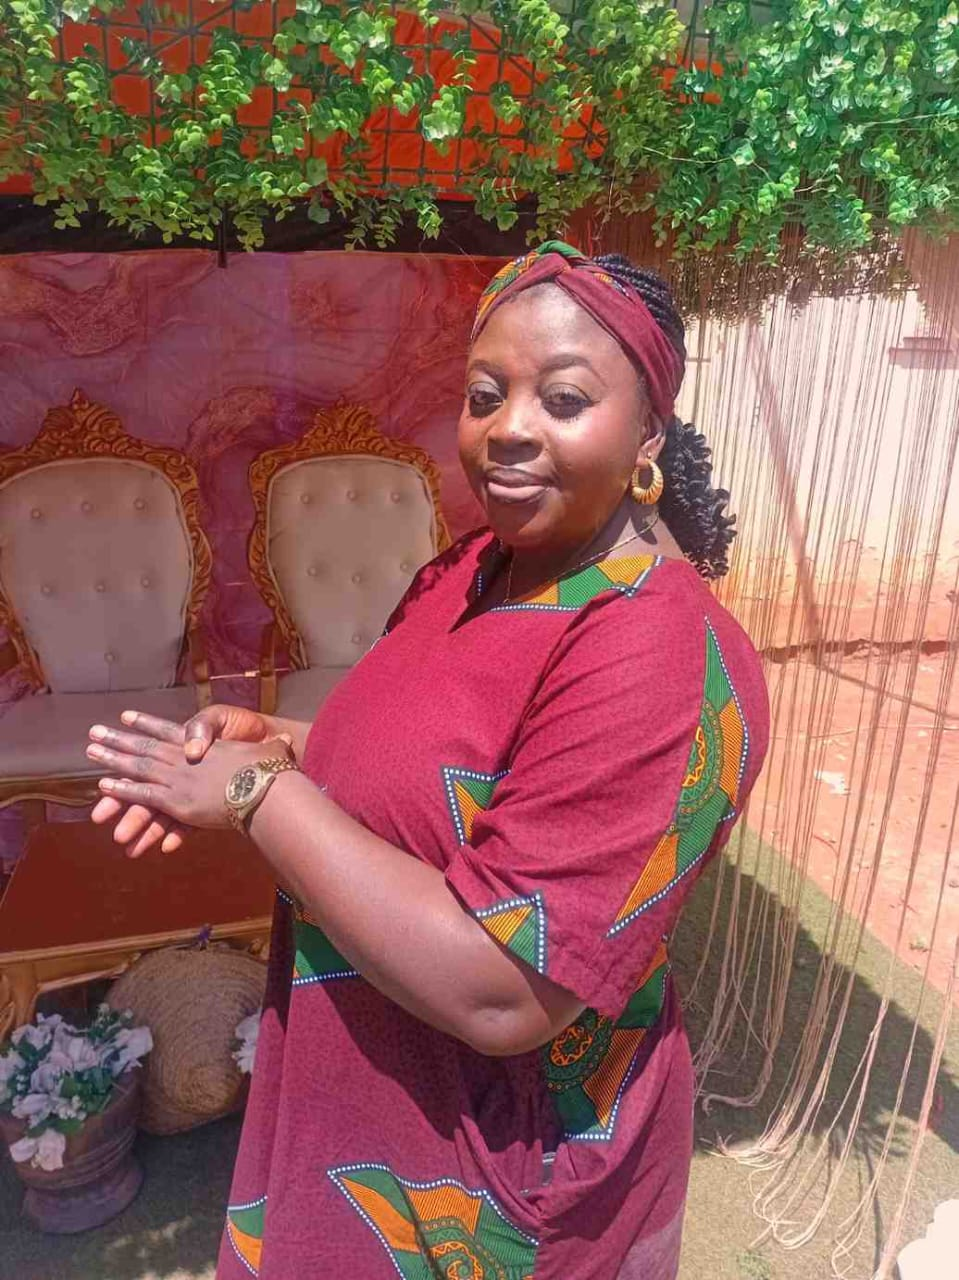
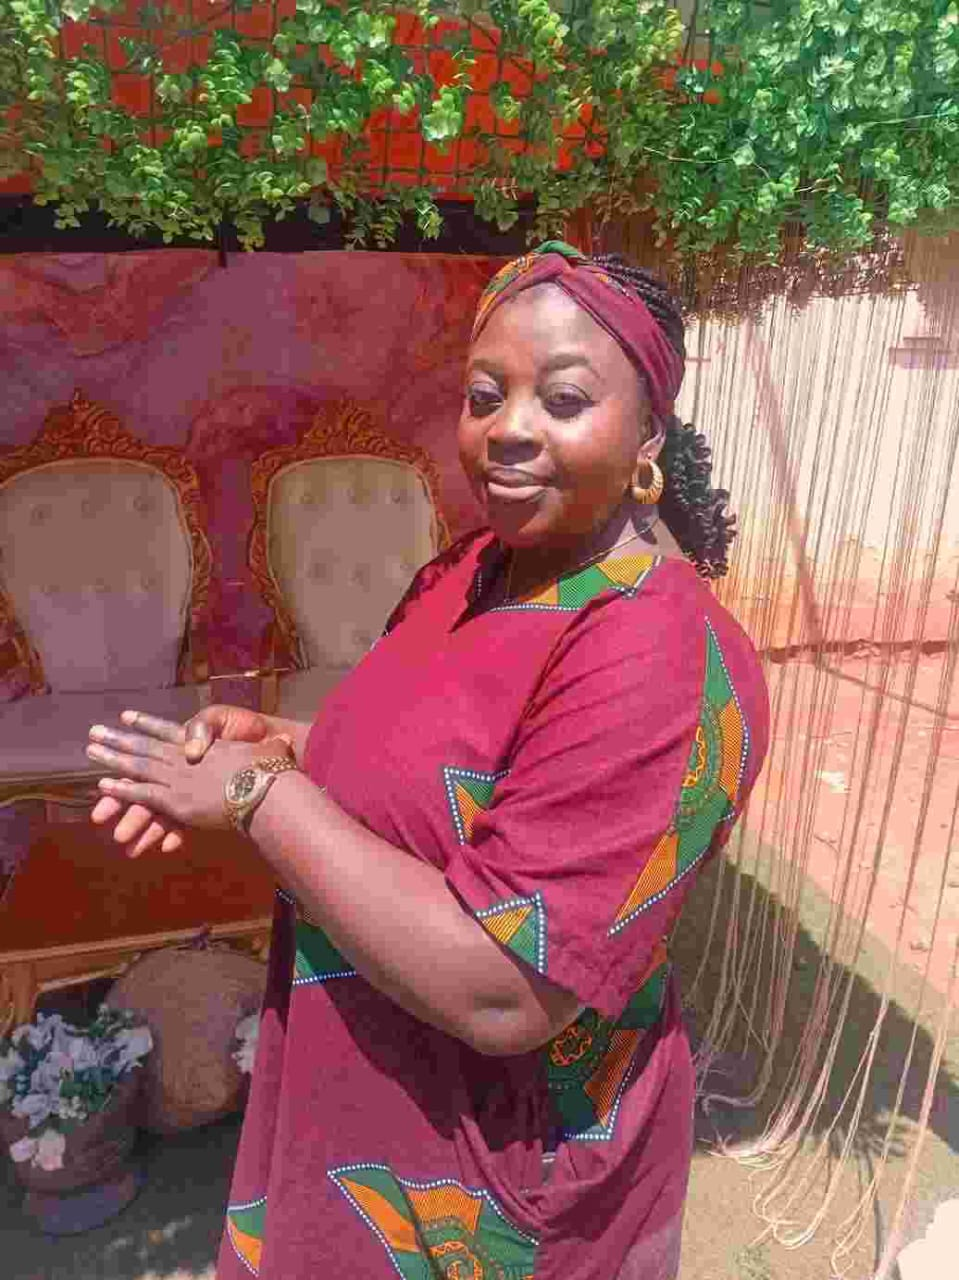
commit

diff --git a/wwr/styles/rafting.css b/wwr/styles/rafting.css
@@ -66,8 +66,10 @@ footer {
 }
 
 h2 {
-    font-family: var(--heading-font);
-    color: var(--color2);
+
+    padding: 10px;
+    margin: 16px;
+    text-align: center;
 }
 
 header img {
@@ -124,13 +126,6 @@ figure img {
     width: 125px;
     height: 120px;
     object-fit: cover;
-
-}
-
-h2 {
-    padding: 10px;
-    margin: 16px;
-    text-align: center;
 
 }
 
